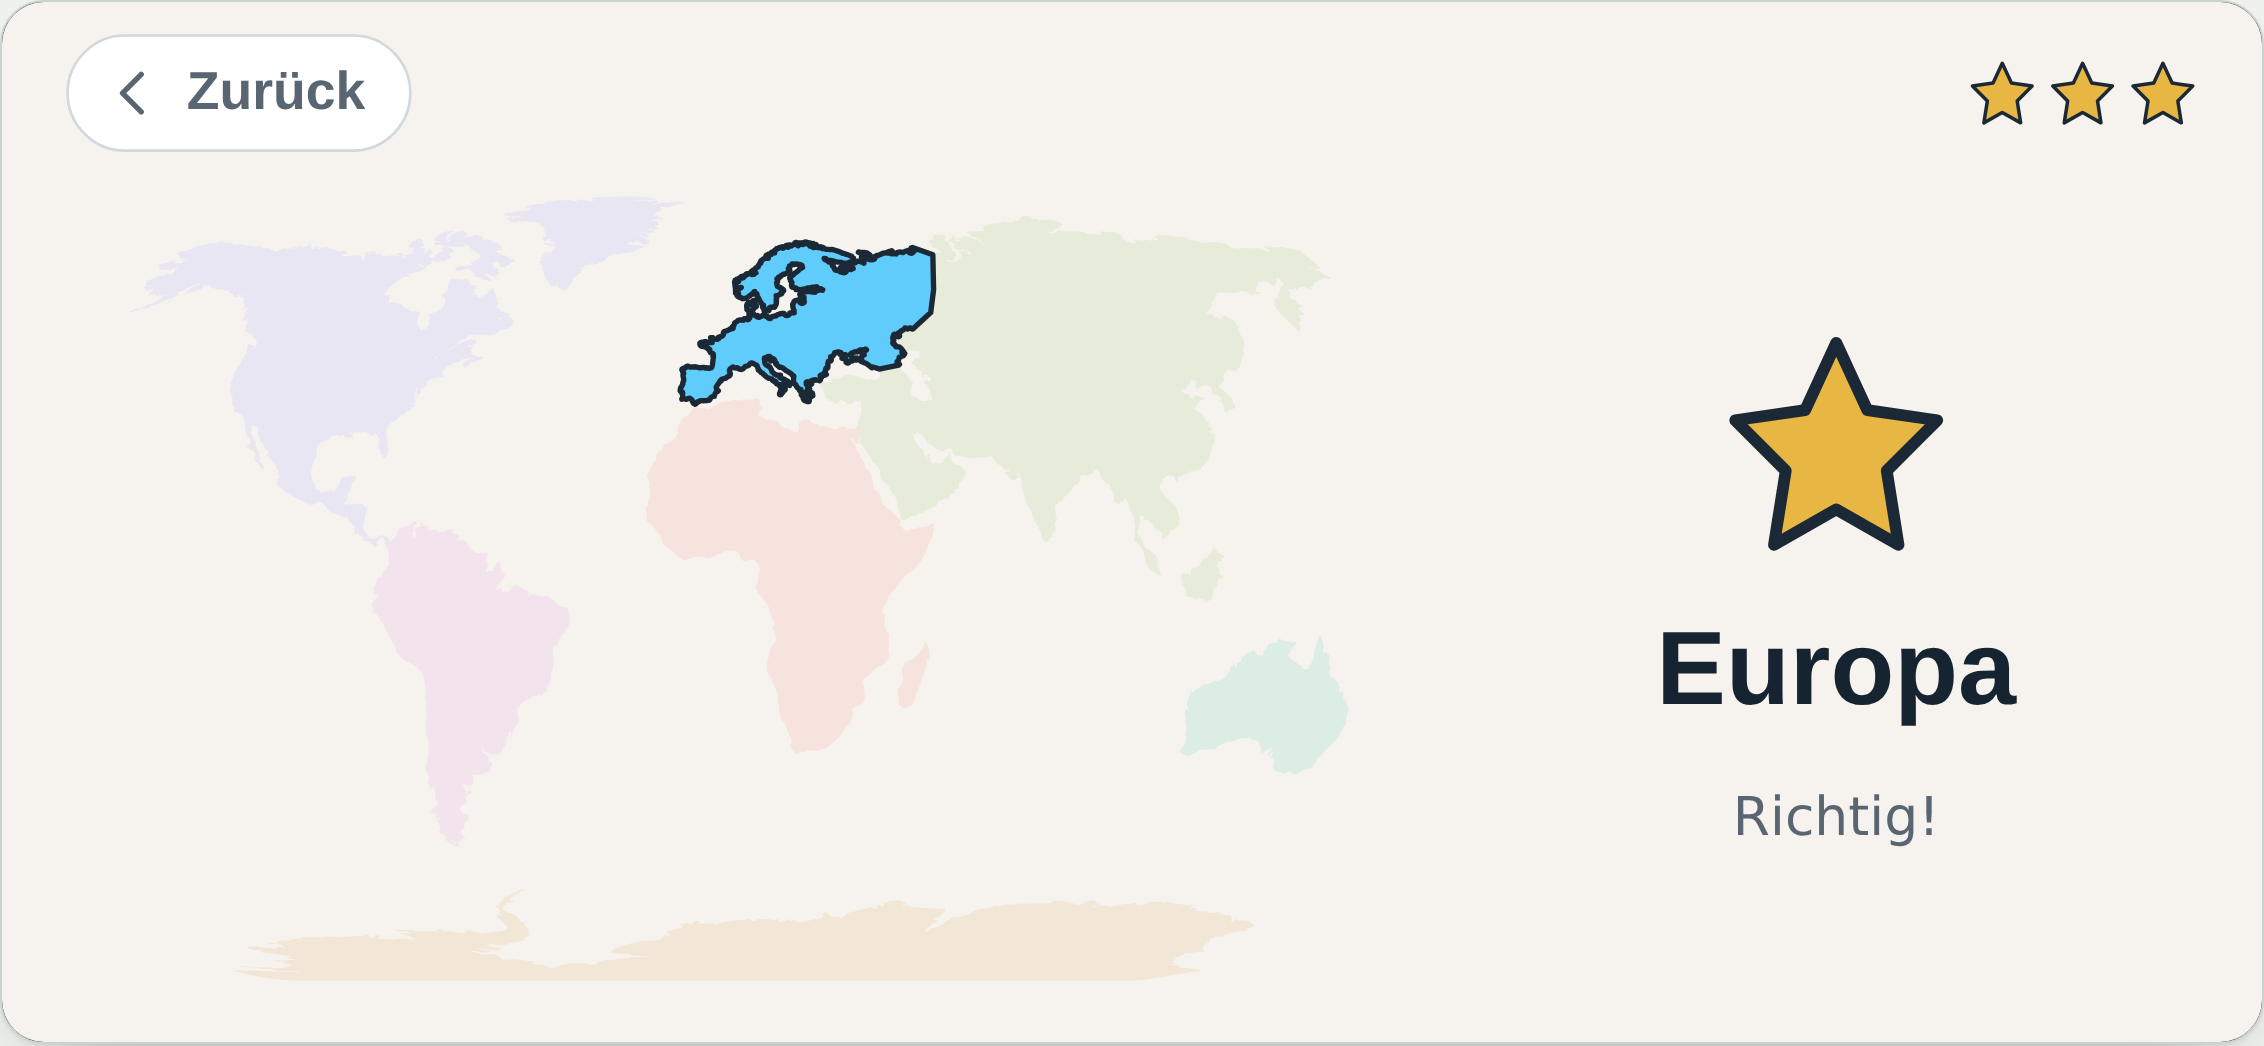
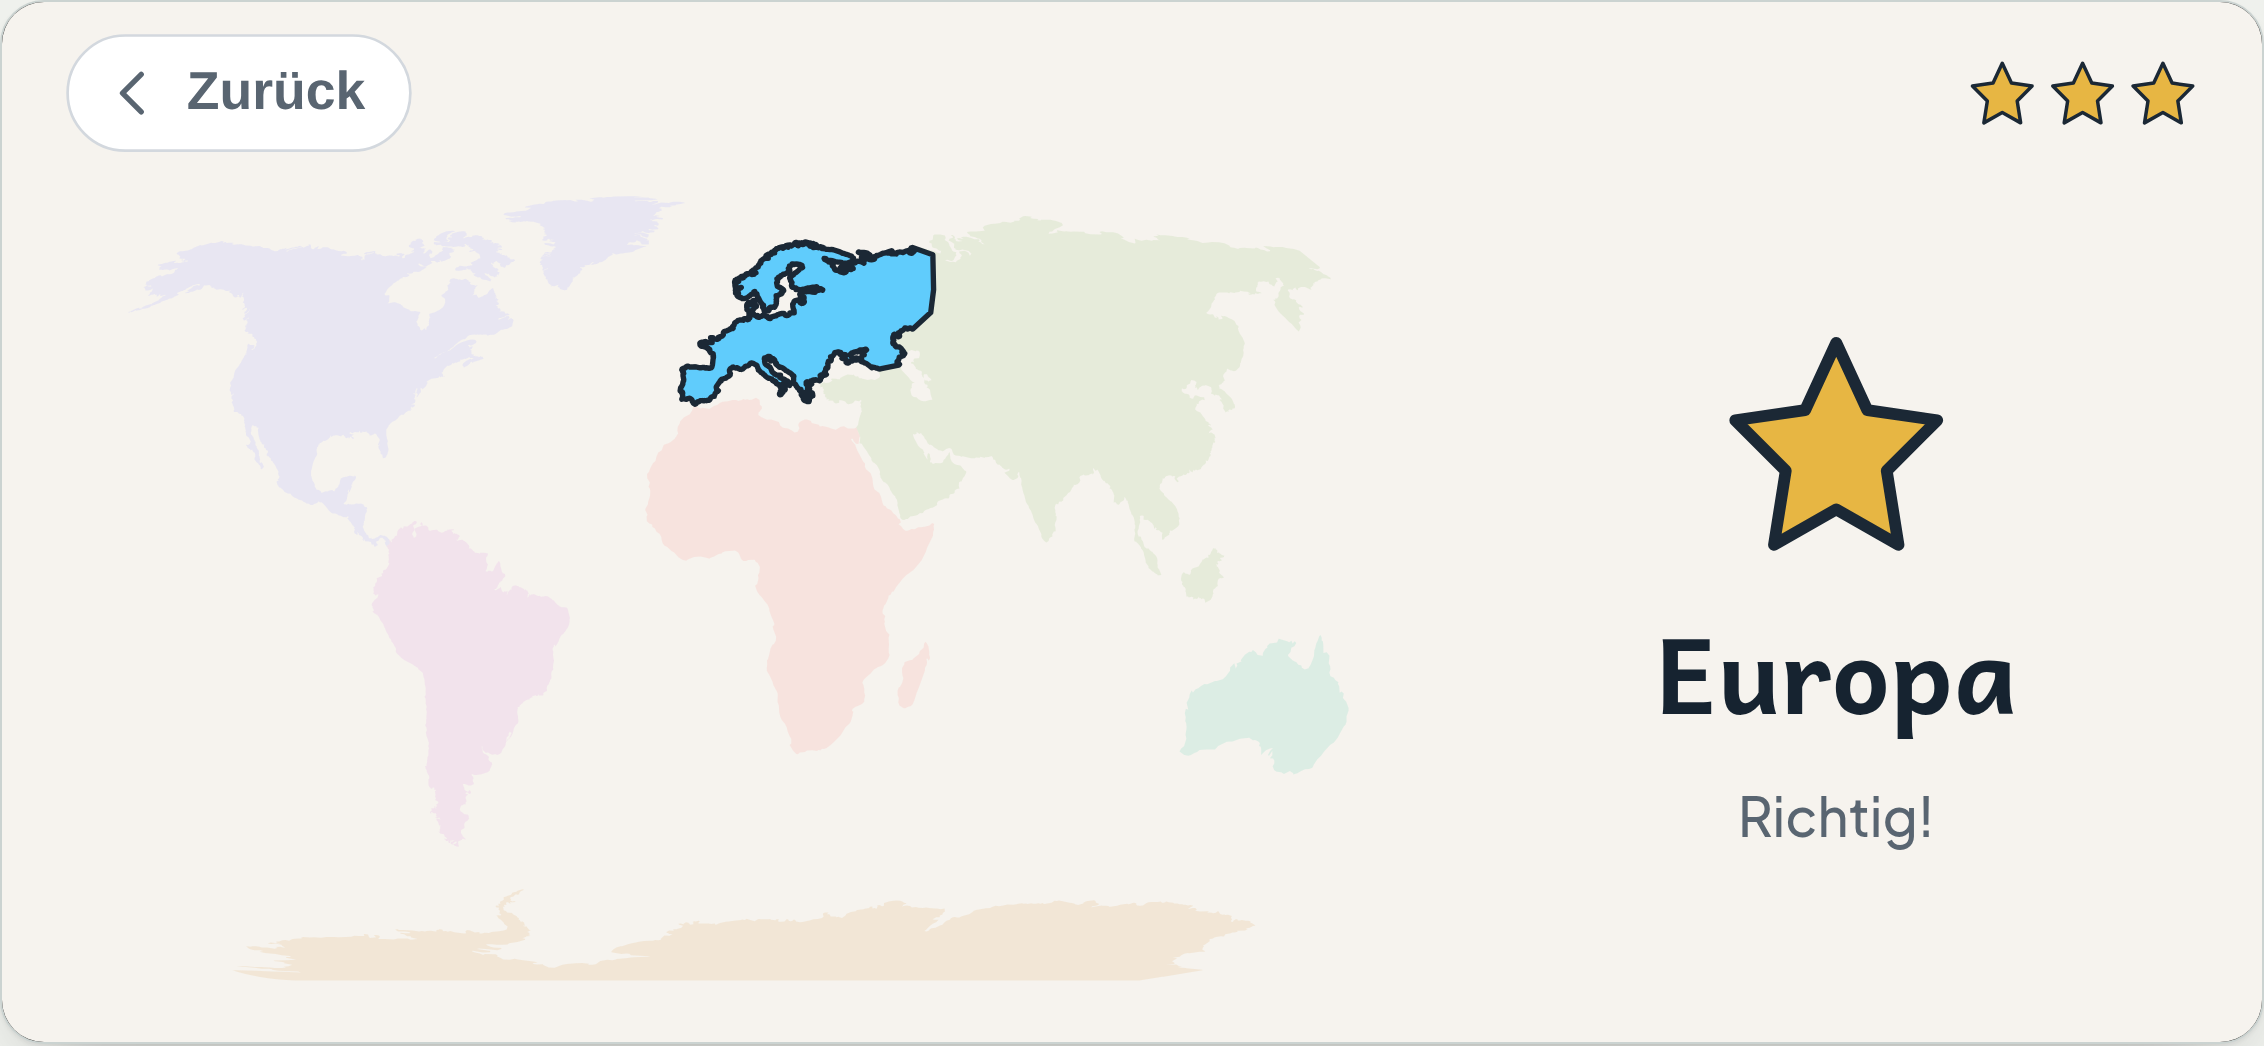
Die Entwuerfe holten ihre Schrift aus dem Netz
Gesucht war, ob der Bildvergleich in mehr Teile zerfallen sollte. Die
Messung hat etwas anderes gefunden: EINE Aufnahme kostete 13,5 s, alle
anderen zusammen 22. Es war der Seitenaufbau von entwuerfe/mg.html — ein
<link> auf fonts.googleapis.com, der ohne freies Netz in die
Zeitueberschreitung laeuft. 12,5 s, bei jedem Lauf.

Und das war der kleinere Schaden. Danach steht die Seite in der
ERSATZSCHRIFT da: die Vorbilder mg-fiona-kontinente und
mg-lea-deutschland zeigten seit jeher eine Systemschrift statt Plus
Jakarta Sans. Ein Entwurf, der die Typografie zeigen soll, zeigte eine
fremde.

Kein Tor hat es gemeldet, obwohl  genau dagegen eine Pruefung
hat — sie lief nur fuer die App-Bildschirme. Jetzt fuer JEDE Aufnahme.

Die Entwuerfe nehmen dieselben selbst gehosteten Schriften wie die App
(gebaut aus src/schrift/schrift.css). Die vier Schriften des DOKUMENTS
fallen auf ihre Systemstapel zurueck — der bewusste Preis: sie schmuecken
die Prosa, nicht die Entwuerfe.

Gemessen, an derselben Stelle vorher und nachher:

  Aufbau von mg.html    12 500 ms  ->  620 ms
  npm run schnell            46 s  ->  23,8 s
  npm run tor               4:48   ->  4:41

Und die Ausgangsfrage beantwortet sich dabei selbst: mit den 12,5 s ist
der Bildvergleich nicht mehr der Engpass. Gemessen 2/3/4/5/6 Teile —
27,1 / 20,1 / 20,7 / 21,0 / 22,5 s. Ab drei bestimmt der Rauchtest den
Boden. Also drei, nicht zwei und nicht vier.

Claude-Session: https://claude.ai/code/session_01GwecUQxeRqJxKHLkGsVrjv

Changed region(s): [[0.742, 0.5813, 0.8966, 0.7036], [0.742, 0.7648, 0.8657, 0.826]]

diff --git a/entwuerfe/mg.html b/entwuerfe/mg.html
@@ -1,7 +1,9 @@
 <title>Lernkiste Entwürfe</title>
-<link rel="preconnect" href="https://fonts.googleapis.com">
-<link rel="preconnect" href="https://fonts.gstatic.com" crossorigin>
-<link rel="stylesheet" href="https://fonts.googleapis.com/css2?family=Newsreader:opsz,wght@6..72,400;6..72,500&family=Atkinson+Hyperlegible:wght@400;700&family=IBM+Plex+Mono:wght@400;500;600&family=Andika:wght@400;700&family=Plus+Jakarta+Sans:wght@400;500;600;700;800&family=Nunito:wght@400;600;700;800&display=swap">
+<!-- Die Schrift der App, selbst gehostet. Hier stand ein Link auf
+     fonts.googleapis.com: ohne freies Netz 12,5 s Zeitueberschreitung je
+     Aufbau, und danach die Ersatzschrift im Bild. Gebaut von
+     entwuerfe/bauen.mjs aus src/schrift/schrift.css. -->
+<link rel="stylesheet" href="./schrift.css">
 
 <style>
 /* ---------- Seitenrahmen: dieselbe Familie wie Konzept und Audit ------- */

diff --git a/entwuerfe/vorlage.html b/entwuerfe/vorlage.html
@@ -1,7 +1,9 @@
 <title>Lernkiste Entwürfe</title>
-<link rel="preconnect" href="https://fonts.googleapis.com">
-<link rel="preconnect" href="https://fonts.gstatic.com" crossorigin>
-<link rel="stylesheet" href="https://fonts.googleapis.com/css2?family=Newsreader:opsz,wght@6..72,400;6..72,500&family=Atkinson+Hyperlegible:wght@400;700&family=IBM+Plex+Mono:wght@400;500;600&family=Andika:wght@400;700&family=Plus+Jakarta+Sans:wght@400;500;600;700;800&family=Nunito:wght@400;600;700;800&display=swap">
+<!-- Die Schrift der App, selbst gehostet. Hier stand ein Link auf
+     fonts.googleapis.com: ohne freies Netz 12,5 s Zeitueberschreitung je
+     Aufbau, und danach die Ersatzschrift im Bild. Gebaut von
+     entwuerfe/bauen.mjs aus src/schrift/schrift.css. -->
+<link rel="stylesheet" href="./schrift.css">
 
 <style>
 /* ---------- Seitenrahmen: dieselbe Familie wie Konzept und Audit ------- */

diff --git a/CLAUDE.md b/CLAUDE.md
@@ -22,8 +22,8 @@ Nicht alles wird immer geprüft. Was wann läuft, ist **gemessen** entschieden
 
 | Bahn | Wann | Dauer | Was |
 |---|---|---|---|
-| **`npm run schnell`** | bei **jeder** Änderung | **~46 s** (gemessen, 23 Aufnahmen) | inhalt · spielprobe · vergleich · bauen · budget, dann Rauchtest (Hauptweg) und die zwei Hälften des Bildvergleichs — **drei Browser nebeneinander** |
-| `npm run tor` | wenn du unsicher bist, sonst gar nicht | ~5 min (gemessen 4:48) | die volle Kette, alle Größen, alle Bildschirme |
+| **`npm run schnell`** | bei **jeder** Änderung | **~24 s** (gemessen, 23 Aufnahmen) | inhalt · spielprobe · vergleich · bauen · budget, dann Rauchtest (Hauptweg) und **drei Drittel** des Bildvergleichs — vier Browser nebeneinander |
+| `npm run tor` | wenn du unsicher bist, sonst gar nicht | ~5 min (gemessen 4:41) | die volle Kette, alle Größen, alle Bildschirme |
 | Runner, bei jedem Push | automatisch | 3–4 min, ohne dich | die volle Kette — und nur bei Grün geht etwas nach `/` |
 | Runner, nachts | automatisch | ~20 min, ohne dich | `npm run proben`: alle Gegenproben |
 
@@ -65,7 +65,7 @@ Proben hätten genau daran angeschlagen.
 ## Befehle
 
 ```
-npm run schnell    DIE NORMALE RUNDE. ~46 s. Siehe oben.
+npm run schnell    DIE NORMALE RUNDE. ~24 s. Siehe oben.
 npm run tor        die ganze Kette. Der Runner fährt sie ohnehin bei jedem
                    Push; hier nur, wenn du sie vorher sehen willst.
 npm run korpus     der Weg zur eingefrorenen Hälfte des Sprachkorpus.
@@ -110,6 +110,9 @@ npm run ansicht    Bildvergleich. Nur ortsfest, nicht auf dem Runner.
                    `-- --nur=quer-vorlauf` nimmt nur die Bildschirme auf,
                    deren Name den Text enthaelt — fuer die Hand, wenn du an
                    einem davon arbeitest. Trifft nichts, ist es rot.
+                   `-- --zeiten` sagt, was jede einzelne Aufnahme kostet.
+                   Dafuer da: die Gewichte der Aufteilung sind eine
+                   Schaetzung, und eine Schaetzung ohne Messstelle veraltet.
                    `--aktualisieren` erneuert die Vorbilder — bewusst, und
                    im SELBEN Commit einchecken.
 npm run backen     Karten neu rechnen
